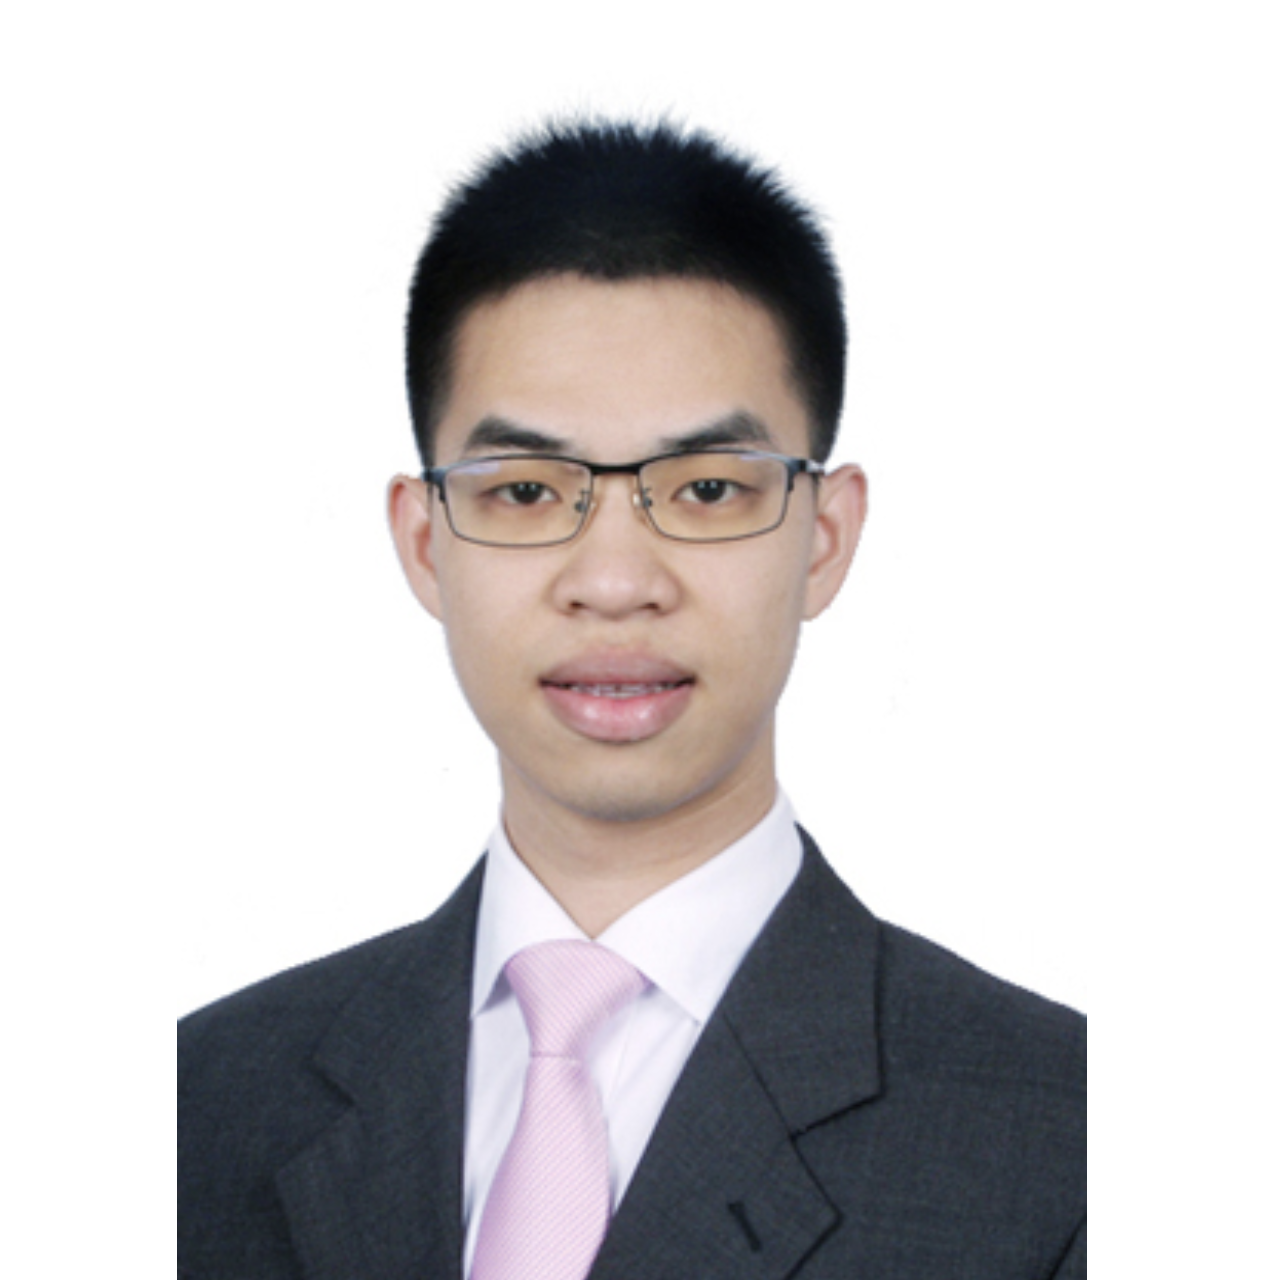
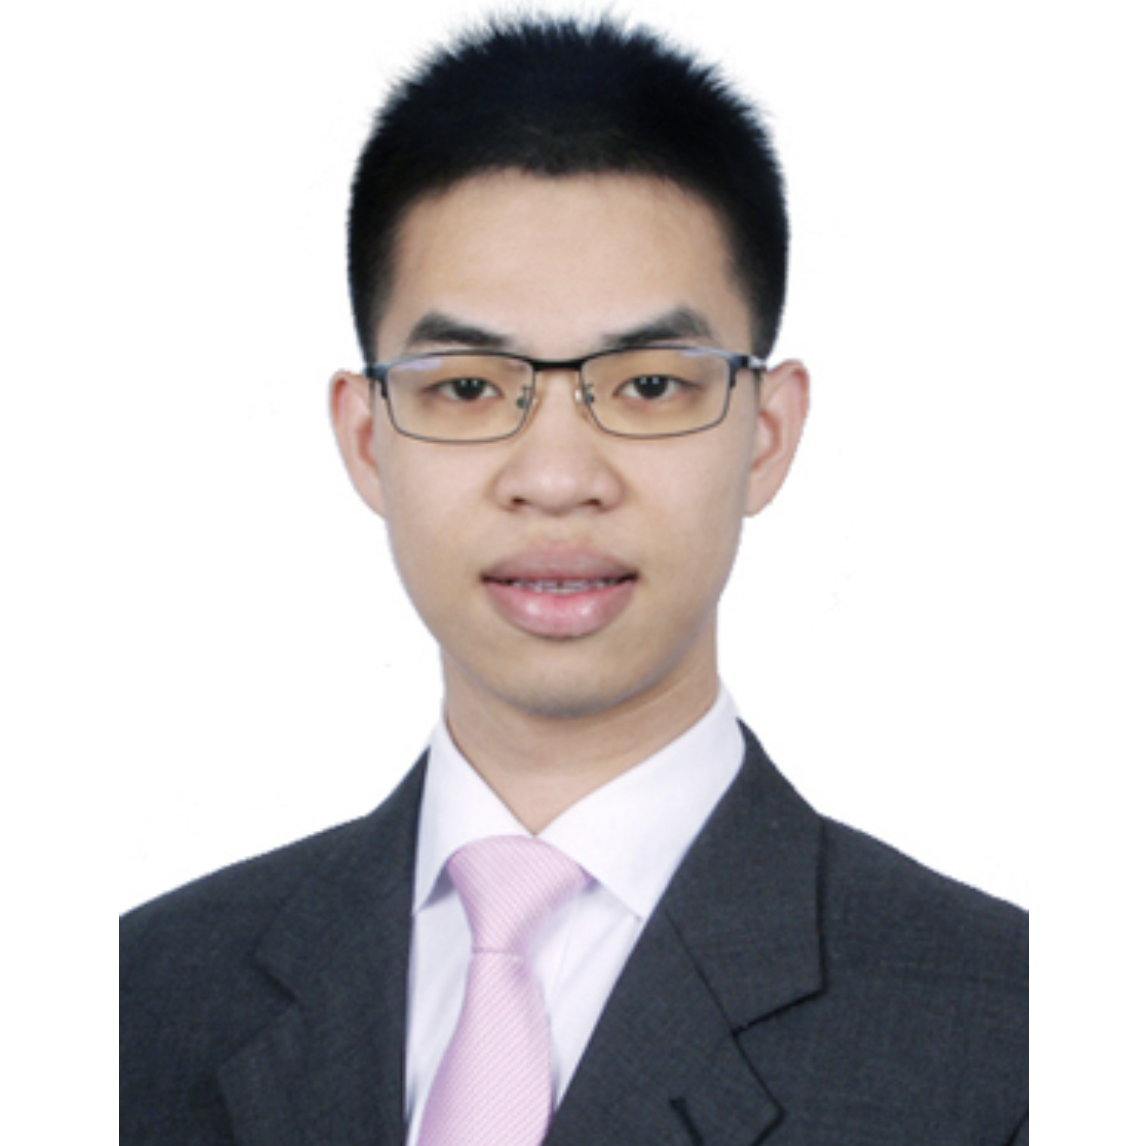
vLAR Group page is online!

diff --git a/people.html b/people.html
@@ -273,7 +273,7 @@
                 <div class="vlar-peo-cont-item-c-si-c">
                 	<p class="people-info1">Hongkang SONG</p>
                     <p class="people-info2">RA: 2021.12 - </p>
-                    <p class="people-info3">MSc@ICL, Distinction; BEng@KCL</p>
+                    <p class="people-info3">MSc@ICL, Distinction; BEng@KCL, First Class Honours</p>
                     <p class="people-info4"><a href="mailto:hongkang.song(at)polyu.edu.hk">Email</a></p>
                     <div class="people-info6">
                     	<p><b>Research Interests:</b></p>
@@ -385,7 +385,7 @@
             	<div class="vlar-peo-cont-item-c-si-img"><img src="imgs/people_donghui.png" />  </div>
                 <div class="vlar-peo-cont-item-c-si-c">
                 	<p class="people-info1">Donghui SHEN</p>
-                    <p class="people-info2">2021.08 - 2021.12: RA</p>
+                    <p class="people-info2">RA: 2021.08 - 2021.12</p>
                     <p class="people-info3">MSc, BSc@SDU</p>
                 </div>
                 <div class="vlar-clear"></div>
@@ -396,7 +396,7 @@
             	<div class="vlar-peo-cont-item-c-si-img"><img src="imgs/people_xiaodong.png" />  </div>
                 <div class="vlar-peo-cont-item-c-si-c">
                 	<p class="people-info1">Xiaodong CHEN</p>
-                    <p class="people-info2">2021.08 - 2021.12: RA</p>
+                    <p class="people-info2">RA: 2021.08 - 2021.12</p>
                     <p class="people-info3">MSc@HKUST</p>
                 </div>
                 <div class="vlar-clear"></div>
@@ -407,7 +407,7 @@
             	<div class="vlar-peo-cont-item-c-si-img"><img src="imgs/people_lu.jpeg" />  </div>
                 <div class="vlar-peo-cont-item-c-si-c">
                 	<p class="people-info1">Lu CHEN</p>
-                    <p class="people-info2">2021.05 - 2022.03: MSc Student</p>
+                    <p class="people-info2">MSc Researcher: 2021.05 - 2022.03</p>
                     <p class="people-info3">MSc@PolyU</p>
                 </div>
                 <div class="vlar-clear"></div>

diff --git a/css/vlar.s3.css b/css/vlar.s3.css
@@ -66,12 +66,12 @@
 .vlar-peo-cont-item-c-si-c{ text-align:left; padding:5px;}
 
 .people-info1{font-size:14px; color:#000; font-weight:bold; line-height:1.5em; overflow:hidden; text-align:center;}
-.people-info2{font-size:14px; color:#999; font-style:italic; line-height:1em; overflow:hidden; text-align:center;}
-.people-info3{font-size:14px; color:#C60; line-height:1em; overflow:hidden; text-align:center; text-align:center; white-space: nowrap; text-overflow:ellipsis; overflow:hidden;}
-.people-info4{font-size:14px; color:#005580; line-height:1em; overflow:hidden; text-align:center; white-space: nowrap; text-overflow:ellipsis; overflow:hidden;}
-.people-info5{font-size:10px; color:#000; line-height:1em; overflow:hidden; text-align:center; white-space: nowrap; text-overflow:ellipsis; overflow:hidden;}
+.people-info2{font-size:14px; color:#999; font-style:italic; line-height:1.2em; overflow:hidden; text-align:center;}
+.people-info3{font-size:14px; color:#C60; line-height:1.2em; overflow:hidden; text-align:center; text-align:center; white-space: nowrap; text-overflow:ellipsis; overflow:hidden;}
+.people-info4{font-size:14px; color:#005580; line-height:1.2em; overflow:hidden; text-align:center; white-space: nowrap; text-overflow:ellipsis; overflow:hidden;}
+.people-info5{font-size:10px; color:#000; line-height:1.2em; overflow:hidden; text-align:center; white-space: nowrap; text-overflow:ellipsis; overflow:hidden;}
 .people-info6{font-size:14px; color:#000;line-height:1em; padding:10px 10px 5px 10px; background:#fceff1;  border-radius:5px; white-space: nowrap; text-overflow:ellipsis; overflow:hidden;}
-.people-info6 p{ font-size:14px; }
+.people-info6 p{ font-size:12px; }
 
 .vlar-peo-cont-item-c-si-pi{ padding-bottom:20px; text-align: center;}
 .vlar-peo-cont-item-c-si-pi-img{ }

diff --git a/css/vlar.s1.css b/css/vlar.s1.css
@@ -67,7 +67,7 @@ body{ padding-top:120px;}
 
 .vlar-peo-cont-item-c-si{ margin-bottom:30px; padding-bottom:30px;  vertical-align:top;}
 .vlar-peo-cont-item-c-si-img{ width:200px; height:auto; float:left;}
-.vlar-peo-cont-item-c-si-img img { width:180px; height:180px; padding-top:5px; }   /*照片尺寸*/
+.vlar-peo-cont-item-c-si-img img { width:160px; height:160px; padding-top:5px; }   /*照片尺寸*/
 .vlar-peo-cont-item-c-si-c{ padding-left:200px; vertical-align:top;}
 
 .people-info1{font-size:14px; color:#000; font-weight:bold; line-height:1.5em; overflow:hidden; text-align:left;}
